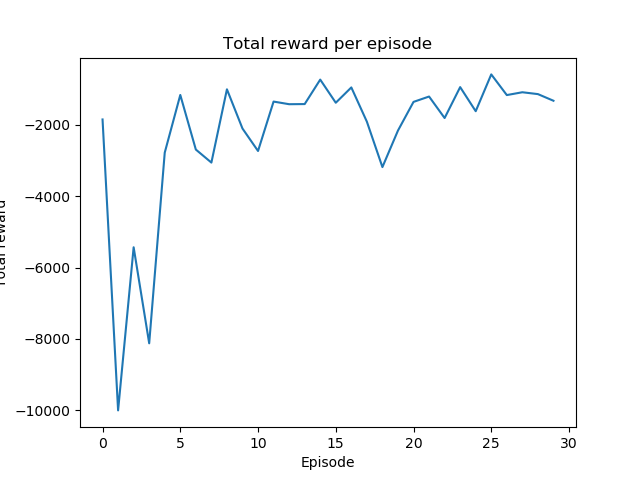
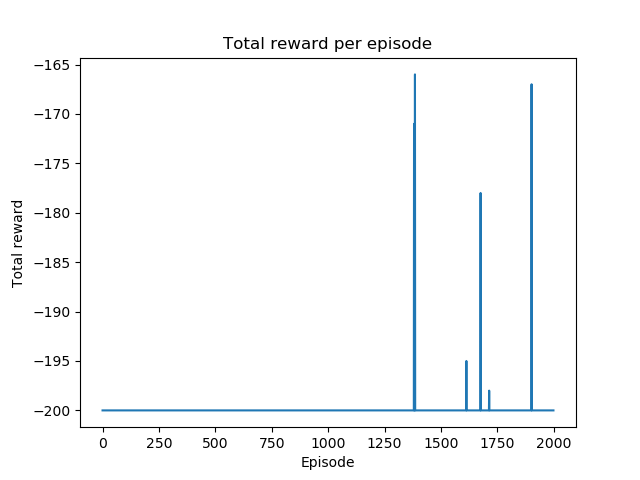
Some improvements

diff --git a/common/q_learner.py b/common/q_learner.py
@@ -19,7 +19,9 @@ class QLearner(Agent):
     discount_factor = 1.0,
     episodes = 100,
     iterations = 10000,
-    exploration_rate = 0.02
+    exploration_rate = 0.5,
+    min_exploration_rate = 0.02,
+    exploration_rate_decay = 0.998,
   ):
     """An agent that learns from the environment using the Deep Q Learning algorithm
 
@@ -45,6 +47,8 @@ class QLearner(Agent):
     self.__episodes = episodes
     self.__iterations = iterations
     self.__exploration_rate = exploration_rate
+    self.__min_exploration_rate = min_exploration_rate
+    self.__exploration_rate_decay = exploration_rate_decay
     self.__q_values = np.zeros(states + (actions, ))
     self.__policy = None
     self.__total_rewards = []
@@ -88,7 +92,16 @@ class QLearner(Agent):
       else:
         max_reward = max(max_reward, total_reward)
       
-      print('Episode ' + str(e + 1), ', Max reward ' + str(max_reward), ', Total reward ' + str(total_reward))
+      self.__exploration_rate = max(
+        self.__min_exploration_rate,
+        self.__exploration_rate * self.__exploration_rate_decay
+      )
+      print(
+        'Episode ' + str(e + 1),
+        ', Max reward ' + str(max_reward),
+        ', Total reward ' + str(total_reward),
+        ', Exploration rate ' + str(self.__exploration_rate), 
+        )
 
 
     self.__policy = self.__get_policy()

diff --git a/challenges/mountain_car/mountain_car_q_learning_agent.py b/challenges/mountain_car/mountain_car_q_learning_agent.py
@@ -10,5 +10,6 @@ class MountainCarQLearningAgent(QLearner):
       MountainCarEnvironment(),
       persisted_models_dirname + '/' + 'mountain_car_q_learner.sav',
       persisted_models_dirname + '/' + 'mountain_car_q_learner_reward_plot.png',
-      episodes = 30
+      episodes = 2000,
+      iterations = 200,
     )

diff --git a/challenges/mountain_car/run_q_learning_agent.py b/challenges/mountain_car/run_q_learning_agent.py
@@ -6,4 +6,4 @@ print('Loading agent learned data')
 agent.load()
 
 print('Running a test episode')
-agent.run_test_episode()
+agent.run_test_episode(iterations = 200)
